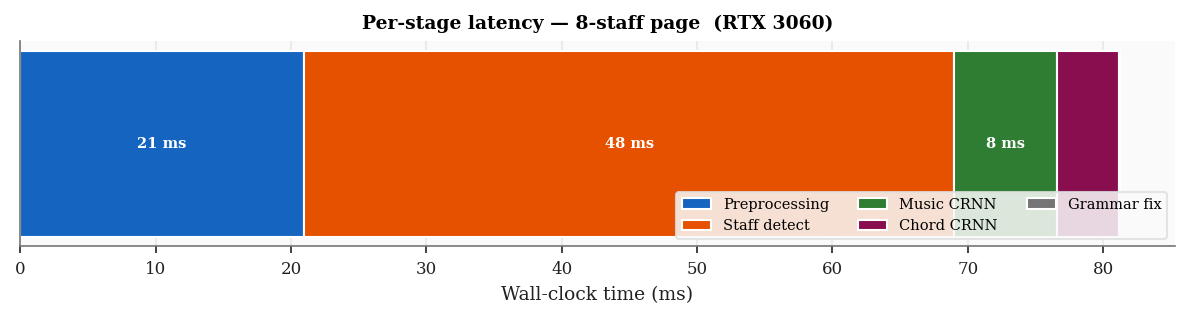
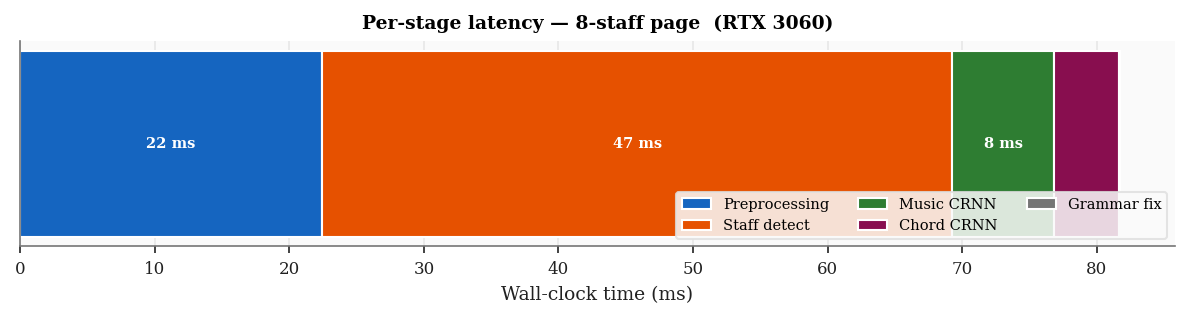
04

diff --git a/latex_documents/main/chapters/04_design.tex b/latex_documents/main/chapters/04_design.tex
@@ -329,13 +329,13 @@ testing on pages with chord symbols printed close to the staff: the
 chord text shrank the inter-staff gap and produced under-segmented
 two-staff strips. The morphological detector is robust to this because
 it keys on isolated long horizontal runs, not the full-page
-projection --- a choice the staff-detection
-literature~\cite{dalitzComparativeStudyStaff2008} supports.
+projection. The staff-detection
+literature~\cite{dalitzComparativeStudyStaff2008} supports this choice.
 
 \paragraph{OCR-only rejection rule.}
 Tested first: mark any strip on which general-purpose OCR returns text
 as non-music, since titles and credits carry text where staves do not.
-Too brittle --- legitimate staves often carry text (rehearsal letters,
+Too brittle: legitimate staves often carry text (rehearsal letters,
 dynamics, chord symbols), and the binary verdict rejected them with no
 recourse. The final design instead demotes OCR density to one signal
 among several and adds the CTC-confidence override.
@@ -346,7 +346,7 @@ did not consistently beat the geometric and OCR gates: training it
 needs hand-labelled non-music crops covering the real failure
 distribution (credits, collinear-text footers, watermarks, title
 headings), and a classifier trained on the cheaply-labelled subset
-accepted the same false positives the heuristics already did --- a
+accepted the same false positives the heuristics already did, a
 labelling cost out of proportion to the gain over a supervision-free
 CTC-confidence post-gate.
 
@@ -402,7 +402,7 @@ augmentations.
 
 Three other public corpora were surveyed and rejected.
 \textbf{OLiMPiC}~\cite{mayerPracticalEndToEnd2024}, which introduced LMX, is the closest analogue to PrIMuS in output format but is pianoform (grand staff, multi-voice); training on it would consume capacity on visual patterns never seen at inference.
-\textbf{MUSCIMA++}~\cite{hajicMuscimaPP2017} covers handwritten music on staff paper --- the wrong direction of engraving-style gap --- and its MuNG graph ground truth does not map to a flat CTC-style token sequence without an error-prone sequentialisation step.
+\textbf{MUSCIMA++}~\cite{hajicMuscimaPP2017} covers handwritten music on staff paper (the wrong direction of the engraving-style gap), and its MuNG graph ground truth does not map to a flat CTC-style token sequence without an error-prone sequentialisation step.
 \textbf{DeepScoresV2}~\cite{tuggenerDeepScoresV22020} provides oriented bounding boxes per symbol, not token sequences; converting those annotations to LMX is a non-trivial dataset-conversion project, and the result would be coarser than PrIMuS's semantic transcriptions.
 
 \subsection{Domain augmentation: from clean renders to scanned pages}
@@ -593,7 +593,7 @@ deferred to \Cref{ch:impl}.
 \subsection{Alternatives considered}
 \label{sec:design-lmx-alts}
 
-\textbf{MusicXML} is too verbose as a direct model target --- each note is wrapped in nested XML tags that inflate sequence length with no musical content; it is the downstream target that LMX round-trips to via a deterministic post-processor.
+\textbf{MusicXML} is too verbose as a direct model target: each note is wrapped in nested XML tags that inflate sequence length with no musical content; it is the downstream target that LMX round-trips to via a deterministic post-processor.
 \textbf{PrIMuS \code{.semantic}} encodes pitch and accidentals jointly (\code{note-Bb5\_quarter}), uses a project-internal vocabulary not adopted by downstream tooling, and does not round-trip to MusicXML; LMX is more compact and aligns with the OLiMPiC reference work.
 \textbf{Humdrum \code{**kern}}~\cite{huronHumdrum2002,Humdrum} and \textbf{ABC}~\cite{walshawABC2011} are compact but have thin tooling ecosystems outside musicology and folk music respectively, and their per-cell escape-character and header conventions complicate CTC training.
 
@@ -656,8 +656,8 @@ while the training cost and architectural complexity are large.
 Replace the BiLSTM with a deeper CNN and treat each feature column as
 an independent class prediction.
 Rejected because monophonic OMR needs horizontal context to
-disambiguate adjacent symbols --- a dot binds to the preceding note,
-an accidental to the following note, a beam groups several notes ---
+disambiguate adjacent symbols (a dot binds to the preceding note,
+an accidental to the following note, a beam groups several notes),
 which a fixed convolutional receptive field cannot supply but the
 recurrent layer propagates along the whole staff; this is what
 motivated recurrence in the standard monophonic-OMR CRNN
@@ -686,7 +686,7 @@ engraved staves. The exact value lives in \Cref{ch:impl}.
 \subsubsection*{Alternatives considered}
 
 Deeper ResNets (ResNet34/50) slowed each epoch with no SER gain in
-ablations --- capacity is not the bottleneck, the synthetic-to-real
+ablations. Capacity is not the bottleneck; the synthetic-to-real
 gap is. EfficientNet/MobileNet and ViT/Swin both converge more slowly
 on a tall, narrow monochrome strip: the lightweight nets are tuned for
 natural images, and the transformers carry the data-hunger of the
@@ -755,7 +755,7 @@ pass.
 \label{sec:design-twostream}
 
 The lead-sheet format (\Cref{sec:motivation}) contains two visually
-distinct streams --- staff notation and chord-symbol text --- that
+distinct streams (staff notation and chord-symbol text) that
 require different feature representations.
 The architectural response is a \textit{two-stream} design, summarised
 in \Cref{fig:two-stream-arch}: two independent CRNN--CTC recognisers
@@ -799,8 +799,8 @@ prohibitive data and compute requirements, and opaque failure modes.
 \paragraph{Pipeline OCR (text detector + chord parser).}
 Run a general-purpose OCR engine (EasyOCR, Tesseract) on the chord
 strip and parse its text. Rejected because general OCR mis-reads
-stylised jazz glyphs --- the \code{ø} half-diminished sign as
-\code{0}, \code{O}, or \code{o} --- whereas a CRNN trained on synthetic
+stylised jazz glyphs (the \code{ø} half-diminished sign as
+\code{0}, \code{O}, or \code{o}), whereas a CRNN trained on synthetic
 Real Book strips is far more accurate for a one-off training cost.
 
 \subsection{Independent training, joint inference}
@@ -809,7 +809,7 @@ At inference the staff-detection stage emits both a staff image and a
 chord-strip image for each system; the two are recognised in parallel
 and their outputs joined into a single JSON segment keyed by the
 system's bounding box. No cross-attention or shared representation
-links the networks --- a deliberate simplicity choice.
+links the networks, a deliberate simplicity choice.
 
 \subsection{Chord vocabulary and notation conventions}
 
@@ -864,9 +864,9 @@ question of \Cref{ch:results}.
 
 The corpus is partitioned deterministically into train, validation,
 and test splits with a fixed seed. The held-out fractions are kept
-small but not negligible --- each comfortably exceeds the
+small but not negligible (each comfortably exceeds the
 few-thousand-sample threshold at which SER estimates stabilise to two
-decimal places --- and the same sample identifier always falls into
+decimal places), and the same sample identifier always falls into
 the same split across runs, so successive experiments are directly
 comparable. Exact split fractions are stated in \Cref{ch:impl}.
 
@@ -880,8 +880,8 @@ repairs the mismatch at inference: each continuation staff has a
 reconstructed clef--key--time header prepended before the CRNN, so the
 model only ever sees the full-header staves it was trained on.
 The key and time signature to inject are taken from the first staff
-that prints them, with a $4/4$ fallback. The mechanism --- prerendered
-header templates injected by the inference pipeline --- is described in
+that prints them, with a $4/4$ fallback. The mechanism (prerendered
+header templates injected by the inference pipeline) is described in
 \Cref{sec:impl-inference}.
 An earlier design instead trained on header-less render variants; it
 was dropped because injecting a known-correct header at inference keeps
@@ -892,9 +892,9 @@ the training set single-distribution and needs no header-less labels.
 Two LMX tokens (\code{tied:start} and \code{tied:stop}) are visually
 subtle and statistically rare in the corpus, so the model
 under-predicts them.
-The design choice is to oversample at the dataset level---duplicating
-samples whose label contains a rare token in the training split
-only---rather than to up-weight the rare token in the loss.
+The design choice is to oversample at the dataset level (duplicating
+samples whose label contains a rare token, in the training split
+only) rather than to up-weight the rare token in the loss.
 Sample-level oversampling preserves the natural distribution of
 context (the rare token appears in its real visual context, with the
 correct surrounding tokens) and, crucially, is compatible with CTC,
@@ -973,8 +973,8 @@ The primary metric is the Symbol Error Rate (SER) defined in
 \Cref{sec:soa-metrics}, reported separately on the clean and scanned
 test splits so the contribution of the augmentation pipeline is
 visible. Because SER aggregates errors of very different musical
-significance --- a missed barline counts identically to a wrong pitch
---- the evaluation also reports a category-level breakdown of the
+significance (a missed barline counts identically to a wrong pitch),
+the evaluation also reports a category-level breakdown of the
 edits attributable to each LMX token family (\code{measure} tokens,
 tie tokens, pitch letters, octaves, durations, accidentals, and
 key/time-signature tokens), the diagnostic information that OMR-NED